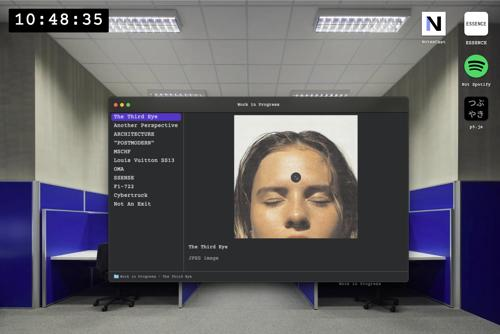
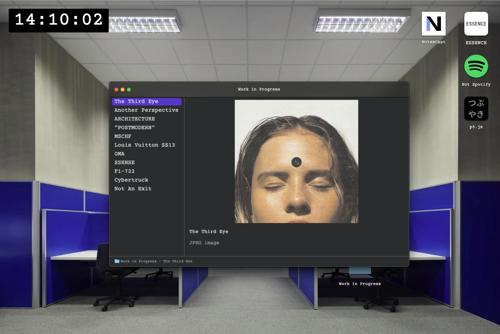
hover name change

Changed region(s): [[0.21, 0.2395, 0.84, 0.8982], [0.03, 0.0299, 0.21, 0.0898]]

diff --git a/src/components/window/MusicWindow.tsx b/src/components/window/MusicWindow.tsx
@@ -3,7 +3,7 @@ import AbstractWindow from './AbstractWindow'
 import Image from 'next/image'
 import music from '@/components/data/music.json'
 import { useEffect, useRef, useState } from 'react'
-import { notoSerifSC } from '@/components/Fonts'
+import { notoSerifSC, notoSerifDisplay, notoSansSC } from '@/components/Fonts'
 import { Music, MusicWindowProps } from '@/components/types'
 import { IconPlayerPlayFilled } from '@tabler/icons-react'
 import Link from 'next/link'
@@ -155,11 +155,11 @@ function MusicWindow({
             windowClassName="bg-black"
         >
             <div className="absolute text-white my-[14px] text-center w-full">
-                {showState === 'menu' ? 'Blog' : key}
+                {showState === 'menu' ? '' : key}
             </div>
 
             <div
-                className={`bg-gradient-to-b from-accent to-[#121212] h-full rounded-lg mt-12 mx-2 overflow-auto relative flex flex-col ${notoSerifSC.className}`}
+                className={`bg-gradient-to-b from-accent to-[#121212] h-full rounded-lg mt-12 mx-2 overflow-auto relative flex flex-col ${notoSansSC.className}`}
                 ref={containerRef}
             >
                 <div className="absolute sticky top-5 left-0 flex space-x-2 mx-5 z-10 w-fit">
@@ -190,18 +190,30 @@ function MusicWindow({
                                 width={100}
                                 src="/assets/icons/heart.jpg"
                                 alt="heart square"
-                                className="rounded-lg shadow-xl h-16 w-16 lg:h-28 lg:w-28"
+                                className="rounded-lg shadow-xl h-20 w-20 lg:h-36 lg:w-36"
                             />
                             <div className="flex flex-col ml-5 text-white">
+                                <h3 className='text-sm'>Blogroll</h3>
                                 <h2 className="text-2xl md:text-4xl xl:text-6xl font-semibold">
-                                    君の幸せを
+                                    Thinking
                                 </h2>
                                 <h3 className="mt-2 text-xs lg:text-sm opacity-0 hover:opacity-100 duration-300">
                                     ずっとあなたの恋人になりたいと夢見ていて、その夢に翻弄されて苦しいんだ。
                                 </h3>
-                                {/* <p className="text-xs lg:text-sm">
-                                    {Object.keys(music).length + ' songs'}
-                                </p> */}
+                                <div className="flex flex-row items-center space-x-2 text-xs lg:text-sm">
+                                    <Image
+                                        height={50}
+                                        width={50}
+                                        src="/assets/profile.jpg"
+                                        alt="Profile"
+                                        className="rounded-full h-8 w-8"
+                                    />
+                                    <div className='hover:underline cursor-pointer'>Eric Zhu</div>
+                                    <div className='w-1 h-1 rounded-full bg-white '/>
+                                    <p>
+                                        {Object.keys(pictures).length + actions.length + ' posts'}
+                                    </p>
+                                </div>
                             </div>
                         </div>
                         <div className="bg-black/50 pt-10 mt-4 px-2 flex-grow flex flex-col">

diff --git a/src/components/desktop/MultiIcon.tsx b/src/components/desktop/MultiIcon.tsx
@@ -3,6 +3,7 @@ import Image from 'next/image'
 import { MultiIconProps } from '@/components/types'
 import { useEffect, useState } from 'react'
 import { useSearchParams } from 'next/navigation'
+import { useScramble } from 'use-scramble'
 
 export default function MultiIcon({
     item,
@@ -11,7 +12,16 @@ export default function MultiIcon({
     moveItemToLast,
 }: MultiIconProps) {
     const [swapIcon, setSwapIcon] = useState<boolean>(false)
+    const [isHovered, setIsHovered] = useState(false)
     const searchParams = useSearchParams()
+
+    const { ref: textRef } = useScramble({
+        text: isHovered && item.hoverName ? item.hoverName : item.name,
+        speed: 1,
+        tick: 1,
+        chance: 0.8,
+        overdrive: false,
+    })
 
     useEffect(() => {
         if (searchParams?.get(item.var) !== null) {
@@ -39,6 +49,8 @@ export default function MultiIcon({
             style={{
                 zIndex: zPosition.indexOf(item.var),
             }}
+            onMouseEnter={() => setIsHovered(true)}
+            onMouseLeave={() => setIsHovered(false)}
         >
             <div
                 className={`p-2 rounded ${
@@ -73,9 +85,8 @@ export default function MultiIcon({
                         ? 'bg-[#0359D1]'
                         : ''
                 }`}
-            >
-                {item.name}
-            </div>
+                ref={textRef}
+            />
         </motion.div>
     )
 }

diff --git a/src/components/ProjectCard.tsx b/src/components/ProjectCard.tsx
@@ -15,10 +15,7 @@ type Project = {
     github?: string
 }
 
-export function ProjectCard({
-    project,
-    cursorPosition,
-}: Props) {
+export function ProjectCard({ project, cursorPosition }: Props) {
     return (
         <div className="flex flex-col overflow-hidden border border-accent3">
             <div className="flex flex-col space-y-1.5">
@@ -43,13 +40,14 @@ export function ProjectCard({
                                 <IconCircleFilled className="text-accent h-1.5 w-1.5" />
                             </div>
                         ) : (
-                            <span className='p-3'>
-                                {project.title}
-                            </span>
-                            
+                            <span className="p-3">{project.title}</span>
                         )}
                         {project.github && (
-                            <Link href={project.github} target="_blank" className='text-secondary hover:bg-black/10 duration-300 p-3'>
+                            <Link
+                                href={project.github}
+                                target="_blank"
+                                className="text-secondary hover:bg-black/10 duration-300 p-3"
+                            >
                                 <IconCode className="h-4 w-4" />
                             </Link>
                         )}

diff --git a/src/components/desktop/Icon.tsx b/src/components/desktop/Icon.tsx
@@ -1,6 +1,8 @@
 import { motion } from 'framer-motion'
 import Image from 'next/image'
 import { IconProps } from '@/components/types'
+import { useScramble } from 'use-scramble'
+import { useState } from 'react'
 
 export default function Icon({
     item,
@@ -8,6 +10,16 @@ export default function Icon({
     moveItemToLast,
     rounded,
 }: IconProps) {
+    const [isHovered, setIsHovered] = useState(false)
+
+    const { ref: textRef } = useScramble({
+        text: isHovered && item.hoverName ? item.hoverName : item.name,
+        speed: 1,
+        tick: 1,
+        chance: 0.8,
+        overdrive: false,
+    })
+
     return (
         <motion.div
             drag
@@ -25,6 +37,8 @@ export default function Icon({
             style={{
                 zIndex: zPosition.indexOf(item.var),
             }}
+            onMouseEnter={() => setIsHovered(true)}
+            onMouseLeave={() => setIsHovered(false)}
         >
             <div
                 className={`p-2 rounded ${
@@ -51,9 +65,8 @@ export default function Icon({
                             ? 'bg-[#0359D1]'
                             : ''
                     }`}
-                >
-                    {item.name}
-                </div>
+                    ref={textRef}
+                />
             )}
         </motion.div>
     )

diff --git a/src/pages/resume.tsx b/src/pages/resume.tsx
@@ -141,9 +141,7 @@ export default function ResumePage() {
                 </div>
                 <div className="flex min-h-0 flex-col">
                     <div className="flex items-center mb-3">
-                        <h2 className="text-xl font-bold text-accent">
-                            About
-                        </h2>
+                        <h2 className="text-xl font-bold text-accent">About</h2>
                         <hr className="border-accent flex-grow ml-3" />
                     </div>
                     <p className="text-xs text-sm text-secondary">
@@ -282,9 +280,7 @@ export default function ResumePage() {
                                         key={category}
                                         className="flex items-start gap-2"
                                     >
-                                        <h3 className="w-[87px]">
-                                            {category}
-                                        </h3>
+                                        <h3 className="w-[87px]">{category}</h3>
                                         <div className="flex flex-wrap gap-1">
                                             {skills.map((skill) => {
                                                 return (

diff --git a/src/components/data/resume.tsx b/src/components/data/resume.tsx
@@ -157,9 +157,6 @@ export const RESUME_DATA = {
             'DynamoDB',
             'Redis',
         ],
-        Other: [
-            'Data structures'
-        ]
     },
     projects: [
         {
@@ -186,12 +183,14 @@ export const RESUME_DATA = {
                 href: 'https://industrial---gallery.com/',
                 preview: '/assets/files/industrial---gallery.jpg',
             },
+            github: 'https://github.com/ericfzhu/industrial---gallery',
         },
-        // {
-        //     title: 'Codex',
-        //     techStack: ['Next.js', 'Transformers'],
-        //     description: 'A book of quote memetics',
-        // },
+        {
+            title: 'Codex',
+            techStack: ['Next.js', 'Transformers'],
+            description: 'A book of quote memetics',
+            github: 'https://github.com/ericfzhu/codex',
+        },
         // {
         //     title: "Furigana",
         //     techStack: ['React'],

diff --git a/src/pages/index.tsx b/src/pages/index.tsx
@@ -130,6 +130,7 @@ export default function HomePage() {
     const itemsConfig: itemsConfigProps = {
         music: {
             name: 'Not Spotify',
+            hoverName: 'Blog',
             var: 'blog',
             icon: {
                 src: '/assets/icons/spotify.png',
@@ -181,6 +182,7 @@ export default function HomePage() {
         },
         library: {
             name: 'ESSENCE',
+            hoverName: 'Library',
             var: 'library',
             icon: {
                 src: '/assets/icons/ESSENCE.png',

diff --git a/src/components/types/index.tsx b/src/components/types/index.tsx
@@ -17,6 +17,7 @@ export interface itemsConfigProps {
 
 type itemProps = {
     name: string
+    hoverName?: string
     var: string
     icon: {
         src: string
